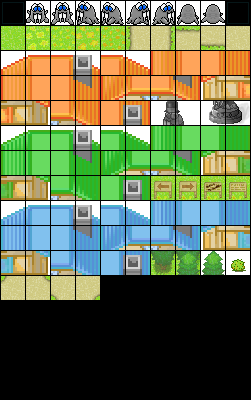
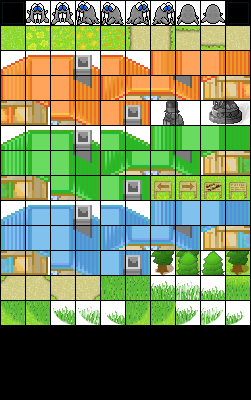
Map and key input
Extended the map and started working on keyboard inputs (non-functional
yet)

Changed region(s): [[0.0, 0.63, 1.0, 0.81]]

diff --git a/Map.java b/Map.java
@@ -50,14 +50,25 @@ public class Map {
 	}
 	
 	public static void loadCity1() {
-		for(int _i=0;_i<100;_i++) {Map[_i][24] = new long[] { 107, 107, 107, 107, 107, 901*108+14, 901*108+10, 10, 10, 14,					106, 14, 14, 10, 11, 10, 10, 0, 0, 0,								0, 0, 0, 0, 0, 0, 0, 0, 0, 0, 0, 0, 0, 0, 0, 0, 0, 0, 0, 0, 0, 0, 0, 0, 0, 0, 0, 0, 0, 0, 0, 0, 0, 0, 0, 0, 0, 0, 0, 0, 0, 0, 0, 0, 0, 0, 0, 0, 0, 0, 0, 0, 0, 0, 0, 0, 0, 0, 0, 0, 0, 0, 0, 0, 0, 0, 0, 0, 0, 0, 0, 0, 0, 0, 0, 0, 0, 0, 0,  0}[_i];}
-		for(int _i=0;_i<100;_i++) {Map[_i][25] = new long[] { 107, 107, 107, 107, 107, 107, 107, 901*108+10, 10, 10,						12, 14, 10, 901*108+10, 10, 10, 10, 0, 0, 0,						0, 0, 0, 0, 0, 0, 0, 0, 0, 0, 0, 0, 0, 0, 0, 0, 0, 0, 0, 0, 0, 0, 0, 0, 0, 0, 0, 0, 0, 0, 0, 0, 0, 0, 0, 0, 0, 0, 0, 0, 0, 0, 0, 0, 0, 0, 0, 0, 0, 0, 0, 0, 0, 0, 0, 0, 0, 0, 0, 0, 0, 0, 0, 0, 0, 0, 0, 0, 0, 0, 0, 0, 0, 0, 0, 0, 0, 0, 0,  0}[_i];}
-		for(int _i=0;_i<100;_i++) {Map[_i][26] = new long[] { 107, 107, 107, 106, 107, 901*20+106, 901*21+106, 901*24+106, 901*25+10, 10,	12, 901*20+12, 901*21+10, 901*22+106, 901*23+10, 10, 10, 0, 0, 0,	0, 0, 0, 0, 0, 0, 0, 0, 0, 0, 0, 0, 0, 0, 0, 0, 0, 0, 0, 0, 0, 0, 0, 0, 0, 0, 0, 0, 0, 0, 0, 0, 0, 0, 0, 0, 0, 0, 0, 0, 0, 0, 0, 0, 0, 0, 0, 0, 0, 0, 0, 0, 0, 0, 0, 0, 0, 0, 0, 0, 0, 0, 0, 0, 0, 0, 0, 0, 0, 0, 0, 0, 0, 0, 0, 0, 0, 0, 0,  0}[_i];}
-		for(int _i=0;_i<100;_i++) {Map[_i][27] = new long[] { 107, 107, 107, 10, 106, 26, 27, 28, 29, 13,									901*108+12, 26, 27, 32, 33, 10, 10, 0, 0, 0,						0, 0, 0, 0, 0, 0, 0, 0, 0, 0, 0, 0, 0, 0, 0, 0, 0, 0, 0, 0, 0, 0, 0, 0, 0, 0, 0, 0, 0, 0, 0, 0, 0, 0, 0, 0, 0, 0, 0, 0, 0, 0, 0, 0, 0, 0, 0, 0, 0, 0, 0, 0, 0, 0, 0, 0, 0, 0, 0, 0, 0, 0, 0, 0, 0, 0, 0, 0, 0, 0, 0, 0, 0, 0, 0, 0, 0, 0, 0,  0}[_i];}
-		for(int _i=0;_i<100;_i++) {Map[_i][28] = new long[] { 107, 107, 107, 901*108+14, 13, 26, 27, 44, 45, 10,							107, 26, 27, 28, 29, 10, 10, 0, 0, 0,								0, 0, 0, 0, 0, 0, 0, 0, 0, 0, 0, 0, 0, 0, 0, 0, 0, 0, 0, 0, 0, 0, 0, 0, 0, 0, 0, 0, 0, 0, 0, 0, 0, 0, 0, 0, 0, 0, 0, 0, 0, 0, 0, 0, 0, 0, 0, 0, 0, 0, 0, 0, 0, 0, 0, 0, 0, 0, 0, 0, 0, 0, 0, 0, 0, 0, 0, 0, 0, 0, 0, 0, 0, 0, 0, 0, 0, 0, 0,  0}[_i];}
-		for(int _i=0;_i<100;_i++) {Map[_i][29] = new long[] { 107, 107, 106, 107, 13, 901*34+11, 35, 36, 901*37+10, 901*4+10,				106, 901*34+11, 35, 42, 901*43+10, 10, 10, 0, 0, 0,					0, 0, 0, 0, 0, 0, 0, 0, 0, 0, 0, 0, 0, 0, 0, 0, 0, 0, 0, 0, 0, 0, 0, 0, 0, 0, 0, 0, 0, 0, 0, 0, 0, 0, 0, 0, 0, 0, 0, 0, 0, 0, 0, 0, 0, 0, 0, 0, 0, 0, 0, 0, 0, 0, 0, 0, 0, 0, 0, 0, 0, 0, 0, 0, 0, 0, 0, 0, 0, 0, 0, 0, 0, 0, 0, 0, 0, 0, 0,  0}[_i];}
-		for(int _i=0;_i<100;_i++) {Map[_i][30] = new long[] { 106, 106, 10, 106, 12, 901*38+11, 39, 40, 901*41+10, 11,						10, 901*38+11, 39, 40, 901*41+10, 901*109+10, 10, 0, 0, 0,			0, 0, 0, 0, 0, 0, 0, 0, 0, 0, 0, 0, 0, 0, 0, 0, 0, 0, 0, 0, 0, 0, 0, 0, 0, 0, 0, 0, 0, 0, 0, 0, 0, 0, 0, 0, 0, 0, 0, 0, 0, 0, 0, 0, 0, 0, 0, 0, 0, 0, 0, 0, 0, 0, 0, 0, 0, 0, 0, 0, 0, 0, 0, 0, 0, 0, 0, 0, 0, 0, 0, 0, 0, 0, 0, 0, 0, 0, 0,  0}[_i];}
-		for(int _i=0;_i<100;_i++) {Map[_i][31] = new long[] { 17, 17, 17, 17, 17, 17, 110, 111, 17, 17,										17, 17, 110, 111, 17, 17, 0, 0, 0, 0,								0, 0, 0, 0, 0, 0, 0, 0, 0, 0, 0, 0, 0, 0, 0, 0, 0, 0, 0, 0, 0, 0, 0, 0, 0, 0, 0, 0, 0, 0, 0, 0, 0, 0, 0, 0, 0, 0, 0, 0, 0, 0, 0, 0, 0, 0, 0, 0, 0, 0, 0, 0, 0, 0, 0, 0, 0, 0, 0, 0, 0, 0, 0, 0, 0, 0, 0, 0, 0, 0, 0, 0, 0, 0, 0, 0, 0, 0, 0,  0}[_i];}
+		for(int _i=0;_i<100;_i++) {Map[_i][15] = new long[] { 107, 107, 107, 107, 107, 107, 107, 107, 107, 107,									107, 107, 107, 901*106+10, 10, 10, 10, 10, 10, 10,											10, 10, 10, 15, 16, 0, 0, 0, 0, 0,						0, 0, 0, 0, 0, 0, 0, 0, 0, 0, 0, 0, 0, 0, 0, 0, 0, 0, 0, 0, 0, 0, 0, 0, 0, 0, 0, 0, 0, 0, 0, 0, 0, 0, 0, 0, 0, 0, 0, 0, 0, 0, 0, 0, 0, 0, 0, 0, 0, 0, 0, 0, 0, 0, 0, 0, 0, 0, 0, 0, 0, 0, 0, 0, 0, 0, 0, 0, 0,  0}[_i];}
+		for(int _i=0;_i<100;_i++) {Map[_i][16] = new long[] { 107, 107, 107, 107, 107, 107, 107, 107, 107, 107,									107, 107, 901*106+10, 901*108+10, 10, 10, 10, 10, 10, 10,									10, 10, 10, 15, 16, 0, 0, 0, 0, 0,						0, 0, 0, 0, 0, 0, 0, 0, 0, 0, 0, 0, 0, 0, 0, 0, 0, 0, 0, 0, 0, 0, 0, 0, 0, 0, 0, 0, 0, 0, 0, 0, 0, 0, 0, 0, 0, 0, 0, 0, 0, 0, 0, 0, 0, 0, 0, 0, 0, 0, 0, 0, 0, 0, 0, 0, 0, 0, 0, 0, 0, 0, 0, 0, 0, 0, 0, 0, 0,  0}[_i];}
+		for(int _i=0;_i<100;_i++) {Map[_i][17] = new long[] { 107, 107, 107, 107, 107, 107, 107, 107, 107, 107,									107, 107, 901*108+10, 107, 10, 10, 10, 10, 10, 10,											10, 10, 10, 15, 16, 0, 0, 0, 0, 0,						0, 0, 0, 0, 0, 0, 0, 0, 0, 0, 0, 0, 0, 0, 0, 0, 0, 0, 0, 0, 0, 0, 0, 0, 0, 0, 0, 0, 0, 0, 0, 0, 0, 0, 0, 0, 0, 0, 0, 0, 0, 0, 0, 0, 0, 0, 0, 0, 0, 0, 0, 0, 0, 0, 0, 0, 0, 0, 0, 0, 0, 0, 0, 0, 0, 0, 0, 0, 0,  0}[_i];}
+		for(int _i=0;_i<100;_i++) {Map[_i][18] = new long[] { 107, 107, 107, 107, 107, 901*106+10, 107, 107, 107, 107,							901*106+10, 107, 107, 901*106+10, 10, 10, 10, 10, 10, 10,									10, 10, 10, 15, 16, 0, 0, 0, 0, 0,						0, 0, 0, 0, 0, 0, 0, 0, 0, 0, 0, 0, 0, 0, 0, 0, 0, 0, 0, 0, 0, 0, 0, 0, 0, 0, 0, 0, 0, 0, 0, 0, 0, 0, 0, 0, 0, 0, 0, 0, 0, 0, 0, 0, 0, 0, 0, 0, 0, 0, 0, 0, 0, 0, 0, 0, 0, 0, 0, 0, 0, 0, 0, 0, 0, 0, 0, 0, 0,  0}[_i];}
+		for(int _i=0;_i<100;_i++) {Map[_i][19] = new long[] { 107, 107, 107, 107, 107, 901*108+10, 107, 107, 107, 901*106+10,					10, 901*106+10, 107, 10, 10, 10, 10, 10, 10, 10,											10, 10, 10, 15, 16, 0, 0, 0, 0, 0,						0, 0, 0, 0, 0, 0, 0, 0, 0, 0, 0, 0, 0, 0, 0, 0, 0, 0, 0, 0, 0, 0, 0, 0, 0, 0, 0, 0, 0, 0, 0, 0, 0, 0, 0, 0, 0, 0, 0, 0, 0, 0, 0, 0, 0, 0, 0, 0, 0, 0, 0, 0, 0, 0, 0, 0, 0, 0, 0, 0, 0, 0, 0, 0, 0, 0, 0, 0, 0,  0}[_i];}
+		for(int _i=0;_i<100;_i++) {Map[_i][20] = new long[] { 107, 107, 107, 107, 107, 107, 107, 107, 107, 14,									10, 10, 901*106+10, 10, 10, 10, 10, 10, 10, 10,												10, 10, 10, 15, 16, 0, 0, 0, 0, 0,						0, 0, 0, 0, 0, 0, 0, 0, 0, 0, 0, 0, 0, 0, 0, 0, 0, 0, 0, 0, 0, 0, 0, 0, 0, 0, 0, 0, 0, 0, 0, 0, 0, 0, 0, 0, 0, 0, 0, 0, 0, 0, 0, 0, 0, 0, 0, 0, 0, 0, 0, 0, 0, 0, 0, 0, 0, 0, 0, 0, 0, 0, 0, 0, 0, 0, 0, 0, 0,  0}[_i];}
+		for(int _i=0;_i<100;_i++) {Map[_i][21] = new long[] { 107, 107, 107, 107, 107, 107, 107, 901*106+10, 901*106+10, 10,					901*108+10, 901*108+10, 901*108+10, 10, 10, 10, 10, 10, 10, 10,								10, 10, 10, 15, 16, 0, 0, 0, 0, 0,						0, 0, 0, 0, 0, 0, 0, 0, 0, 0, 0, 0, 0, 0, 0, 0, 0, 0, 0, 0, 0, 0, 0, 0, 0, 0, 0, 0, 0, 0, 0, 0, 0, 0, 0, 0, 0, 0, 0, 0, 0, 0, 0, 0, 0, 0, 0, 0, 0, 0, 0, 0, 0, 0, 0, 0, 0, 0, 0, 0, 0, 0, 0, 0, 0, 0, 0, 0, 0,  0}[_i];}
+		for(int _i=0;_i<100;_i++) {Map[_i][22] = new long[] { 107, 107, 107, 107, 107, 107, 901*106+10, 10, 10, 901*108+10,						107, 107, 901*106+10, 10, 10, 10, 10, 10, 10, 10,											10, 10, 10, 15, 16, 0, 0, 0, 0, 0,						0, 0, 0, 0, 0, 0, 0, 0, 0, 0, 0, 0, 0, 0, 0, 0, 0, 0, 0, 0, 0, 0, 0, 0, 0, 0, 0, 0, 0, 0, 0, 0, 0, 0, 0, 0, 0, 0, 0, 0, 0, 0, 0, 0, 0, 0, 0, 0, 0, 0, 0, 0, 0, 0, 0, 0, 0, 0, 0, 0, 0, 0, 0, 0, 0, 0, 0, 0, 0,  0}[_i];}
+		for(int _i=0;_i<100;_i++) {Map[_i][23] = new long[] { 107, 107, 107, 107, 107, 901*106+10, 10, 10, 10, 107,								107, 901*106+10, 10, 10, 10, 10, 10, 10, 10, 10,											17, 17, 17, 110, 16, 0, 0, 0, 0, 0,						0, 0, 0, 0, 0, 0, 0, 0, 0, 0, 0, 0, 0, 0, 0, 0, 0, 0, 0, 0, 0, 0, 0, 0, 0, 0, 0, 0, 0, 0, 0, 0, 0, 0, 0, 0, 0, 0, 0, 0, 0, 0, 0, 0, 0, 0, 0, 0, 0, 0, 0, 0, 0, 0, 0, 0, 0, 0, 0, 0, 0, 0, 0, 0, 0, 0, 0, 0, 0,  0}[_i];}
+		for(int _i=0;_i<100;_i++) {Map[_i][24] = new long[] { 107, 107, 107, 107, 107, 901*108+14, 901*108+10, 10, 10, 901*106+10,				106*901+12, 14, 14, 10, 11, 10, 10, 10, 10, 10,												18, 18, 18, 112, 16, 0, 0, 0, 0, 0,						0, 0, 0, 0, 0, 0, 0, 0, 0, 0, 0, 0, 0, 0, 0, 0, 0, 0, 0, 0, 0, 0, 0, 0, 0, 0, 0, 0, 0, 0, 0, 0, 0, 0, 0, 0, 0, 0, 0, 0, 0, 0, 0, 0, 0, 0, 0, 0, 0, 0, 0, 0, 0, 0, 0, 0, 0, 0, 0, 0, 0, 0, 0, 0, 0, 0, 0, 0, 0,  0}[_i];}
+		for(int _i=0;_i<100;_i++) {Map[_i][25] = new long[] { 107, 107, 107, 107, 107, 107, 107, 901*108+10, 10, 10,							12, 14, 10, 901*108+10, 10, 10, 10, 10, 14, 10,												901*108+10, 10, 10, 15, 16, 0, 0, 0, 0, 0,				0, 0, 0, 0, 0, 0, 0, 0, 0, 0, 0, 0, 0, 0, 0, 0, 0, 0, 0, 0, 0, 0, 0, 0, 0, 0, 0, 0, 0, 0, 0, 0, 0, 0, 0, 0, 0, 0, 0, 0, 0, 0, 0, 0, 0, 0, 0, 0, 0, 0, 0, 0, 0, 0, 0, 0, 0, 0, 0, 0, 0, 0, 0, 0, 0, 0, 0, 0, 0,  0}[_i];}
+		for(int _i=0;_i<100;_i++) {Map[_i][26] = new long[] { 107, 107, 107, 106*901+10, 107, 901*20+109, 901*21+109, 901*24+109, 901*25+10, 	10, 12, 901*20+12, 901*21+10, 901*22+109, 901*23+10, 10, 10, 10, 901*20+12, 901*21+10,		901*22+109, 901*23+10, 10, 15, 16, 0, 0, 0, 0, 0,		0, 0, 0, 0, 0, 0, 0, 0, 0, 0, 0, 0, 0, 0, 0, 0, 0, 0, 0, 0, 0, 0, 0, 0, 0, 0, 0, 0, 0, 0, 0, 0, 0, 0, 0, 0, 0, 0, 0, 0, 0, 0, 0, 0, 0, 0, 0, 0, 0, 0, 0, 0, 0, 0, 0, 0, 0, 0, 0, 0, 0, 0, 0, 0, 0, 0, 0, 0, 0,  0}[_i];}
+		for(int _i=0;_i<100;_i++) {Map[_i][27] = new long[] { 107, 107, 107, 10, 106*901+10, 26, 27, 28, 29, 13,								901*108+12, 26, 27, 32, 33, 10, 10, 10, 26, 27,												32, 33, 10, 15, 16, 0, 0, 0, 0, 0,						0, 0, 0, 0, 0, 0, 0, 0, 0, 0, 0, 0, 0, 0, 0, 0, 0, 0, 0, 0, 0, 0, 0, 0, 0, 0, 0, 0, 0, 0, 0, 0, 0, 0, 0, 0, 0, 0, 0, 0, 0, 0, 0, 0, 0, 0, 0, 0, 0, 0, 0, 0, 0, 0, 0, 0, 0, 0, 0, 0, 0, 0, 0, 0, 0, 0, 0, 0, 0,  0}[_i];}
+		for(int _i=0;_i<100;_i++) {Map[_i][28] = new long[] { 107, 107, 107, 901*108+14, 13, 26, 27, 44, 45, 10,								107, 26, 27, 28, 29, 10, 14, 10, 26, 27,													28, 29, 14, 15, 16, 0, 0, 0, 0, 0, 						0, 0, 0, 0, 0, 0, 0, 0, 0, 0, 0, 0, 0, 0, 0, 0, 0, 0, 0, 0, 0, 0, 0, 0, 0, 0, 0, 0, 0, 0, 0, 0, 0, 0, 0, 0, 0, 0, 0, 0, 0, 0, 0, 0, 0, 0, 0, 0, 0, 0, 0, 0, 0, 0, 0, 0, 0, 0, 0, 0, 0, 0, 0, 0, 0, 0, 0, 0, 0,  0}[_i];}
+		for(int _i=0;_i<100;_i++) {Map[_i][29] = new long[] { 107, 107, 106*901+10, 107, 13, 901*34+11, 35, 36, 901*37+10, 10,					901*106+10, 901*34+11, 35, 42, 901*43+10, 901*108+10, 12, 12, 901*34+11, 35,				42, 901*43+10, 12, 15, 16, 0, 0, 0, 0, 0,				0, 0, 0, 0, 0, 0, 0, 0, 0, 0, 0, 0, 0, 0, 0, 0, 0, 0, 0, 0, 0, 0, 0, 0, 0, 0, 0, 0, 0, 0, 0, 0, 0, 0, 0, 0, 0, 0, 0, 0, 0, 0, 0, 0, 0, 0, 0, 0, 0, 0, 0, 0, 0, 0, 0, 0, 0, 0, 0, 0, 0, 0, 0, 0, 0, 0, 0, 0, 0,  0}[_i];}
+		for(int _i=0;_i<100;_i++) {Map[_i][30] = new long[] { 106*901+10, 106*901+10, 79, 106*901+13, 12, 901*38+11, 39, 40, 901*41+10, 11,		10, 901*38+11, 39, 40, 901*41+10, 901*106+10, 10, 12, 901*38+114, 39,						40, 901*41+10, 10, 15, 16, 0, 0, 0, 0, 0,				0, 0, 0, 0, 0, 0, 0, 0, 0, 0, 0, 0, 0, 0, 0, 0, 0, 0, 0, 0, 0, 0, 0, 0, 0, 0, 0, 0, 0, 0, 0, 0, 0, 0, 0, 0, 0, 0, 0, 0, 0, 0, 0, 0, 0, 0, 0, 0, 0, 0, 0, 0, 0, 0, 0, 0, 0, 0, 0, 0, 0, 0, 0, 0, 0, 0, 0, 0, 0,  0}[_i];}
+		for(int _i=0;_i<100;_i++) {Map[_i][31] = new long[] { 17, 17, 17, 17, 17, 17, 110, 111, 17, 17,											17, 17, 110, 111, 17, 17, 17, 17, 17, 17,													17, 17, 17, 110, 111, 0, 0, 0, 0, 0, 					0, 0, 0, 0, 0, 0, 0, 0, 0, 0, 0, 0, 0, 0, 0, 0, 0, 0, 0, 0, 0, 0, 0, 0, 0, 0, 0, 0, 0, 0, 0, 0, 0, 0, 0, 0, 0, 0, 0, 0, 0, 0, 0, 0, 0, 0, 0, 0, 0, 0, 0, 0, 0, 0, 0, 0, 0, 0, 0, 0, 0, 0, 0, 0, 0, 0, 0, 0, 0,  0}[_i];}
+		for(int _i=0;_i<100;_i++) {Map[_i][32] = new long[] { 901*108+18, 901*108+18, 901*108+18, 18, 18, 901*108+18, 18, 18, 112, 113,			901*108+18, 901*108+18, 901*108+18, 18, 18, 901*108+18, 18, 18, 112, 113,					0, 0, 0, 0, 0, 0, 0, 0, 0, 0,							0, 0, 0, 0, 0, 0, 0, 0, 0, 0, 0, 0, 0, 0, 0, 0, 0, 0, 0, 0, 0, 0, 0, 0, 0, 0, 0, 0, 0, 0, 0, 0, 0, 0, 0, 0, 0, 0, 0, 0, 0, 0, 0, 0, 0, 0, 0, 0, 0, 0, 0, 0, 0, 0, 0, 0, 0, 0, 0, 0, 0, 0, 0, 0, 0, 0, 0, 0, 0,  0}[_i];}
+		for(int _i=0;_i<100;_i++) {Map[_i][33] = new long[] { 107, 107, 107, 901*108+10, 901*108+10, 107, 901*108+12, 901*108+13, 15, 16,		107, 107, 107, 901*108+10, 901*108+10, 107, 901*108+10, 901*108+10, 10, 10,					0, 0, 0, 0, 0, 0, 0, 0, 0, 0,							0, 0, 0, 0, 0, 0, 0, 0, 0, 0, 0, 0, 0, 0, 0, 0, 0, 0, 0, 0, 0, 0, 0, 0, 0, 0, 0, 0, 0, 0, 0, 0, 0, 0, 0, 0, 0, 0, 0, 0, 0, 0, 0, 0, 0, 0, 0, 0, 0, 0, 0, 0, 0, 0, 0, 0, 0, 0, 0, 0, 0, 0, 0, 0, 0, 0, 0, 0, 0,  0}[_i];}
 
 	}
 

diff --git a/Screen.java b/Screen.java
@@ -5,7 +5,7 @@ import javax.swing.JFrame;
 import javax.swing.JLabel;
 
 public class Screen {
-	public static TileSource tiles = new TileSource("resources\\tiles.png", 24);
+	public static TileSource tiles = new TileSource("resources\\tiles.png", window.blocksize);
 
 	public static void setSize(int _width, int _height) {
 		ScreenWidth = _width;
@@ -24,15 +24,12 @@ public class Screen {
 	public static JFrame createWindow() {
 		JFrame frame = new JFrame("CodeW");
         frame.setIgnoreRepaint(true);
-		frame.setSize(24*ScreenWidth, 24*ScreenHeight);		// set window size
-	    frame.setVisible(true);
-	    frame.setDefaultCloseOperation(JFrame.EXIT_ON_CLOSE);
-	    frame.pack();
-	    frame.setVisible(true);
+        frame.setDefaultCloseOperation(JFrame.EXIT_ON_CLOSE);
+		frame.setSize(window.blocksize*ScreenWidth, window.blocksize*ScreenHeight);		// set window size
 	    return frame;
 	}
 	public static TileArea createTileArea(JFrame frame) {
-		TileArea tileArea = new TileArea(24*ScreenWidth, 24*ScreenHeight);
+		TileArea tileArea = new TileArea(window.blocksize*ScreenWidth, window.blocksize*ScreenHeight);
 		frame.add("Center", tileArea);
 		frame.pack();
 	    frame.setVisible(true);
@@ -43,10 +40,17 @@ public class Screen {
 		frame.add(lbl);
 		return lbl;
 	}
-	public static BufferStrategy createBuffer(Canvas canvas) {
-		canvas.createBufferStrategy(2);
-        BufferStrategy buffer = canvas.getBufferStrategy();
-        return buffer;
+	public static void prepareCanvas(Canvas _canvas) {
+		_canvas.setIgnoreRepaint(true);
+        _canvas.setSize(window.width, window.height);
+	}
+	public static BufferStrategy createBuffer(JFrame _window, Canvas _canvas) {
+        _window.add(_canvas);
+        _window.pack();
+        _window.setVisible(true);
+		_canvas.createBufferStrategy(2);
+		BufferStrategy _buffer = _canvas.getBufferStrategy();
+        return _buffer;
 	}
 	public static Screen createScreen(int _width, int _height) {
 		Screen screen = new Screen(_width, _height);
@@ -63,7 +67,7 @@ public class Screen {
 			for(int _x=0;_x<getWidth();_x++) {
 				Screen.setField(_x, _y, Map.get(left+_x, top+_y));
 				if(left+_x == Player.getXPos() && top+_y == Player.getYPos()) {
-					Screen.setField(_x, _y, 901*108+14);
+					Screen.setField(_x, _y, 901*6+0);
 				}
 			
 			}
@@ -77,21 +81,21 @@ public class Screen {
 				if (data!=dataOld | ForceUpdate == true) {
 					int _background = Map.getBackgroundID(data);	// extract background data
 					int _foreground = Map.getForegroundID(data);	// extrace foreground data
-					System.out.println("Zeichne neuen Block: "+_x+":"+_y);
+					/*System.out.println("Zeichne neuen Block: "+_x+":"+_y);
 					System.out.println("Original Data="+data);
 					System.out.println("Foreground (901)="+_foreground);
 					System.out.println("Background (1)="+_background);
 					System.out.println("background tile xPos="+TileSource.getXPos(_background));
 					System.out.println("background tile yPos="+TileSource.getYPos(_background));
 					System.out.println("foreground tile xPos="+TileSource.getXPos(_foreground));
-					System.out.println("foreground tile yPos="+TileSource.getYPos(_foreground));
-					TileArea.drawTile(tiles, TileSource.getXPos(_background), TileSource.getYPos(_background), 24*_x, 24*_y);						// render background layer
-					if(_foreground>0) {TileArea.drawTile(tiles, TileSource.getXPos(_foreground), TileSource.getYPos(_foreground), 24*_x, 24*_y);}	// add foreground layer
+					System.out.println("foreground tile yPos="+TileSource.getYPos(_foreground));*/
+					TileArea.drawTile(tiles, TileSource.getXPos(_background), TileSource.getYPos(_background), window.blocksize*_x, window.blocksize*_y);						// render background layer
+					if(_foreground>0) {TileArea.drawTile(tiles, TileSource.getXPos(_foreground), TileSource.getYPos(_foreground), window.blocksize*_x, window.blocksize*_y);}	// add foreground layer
 				}
 			}
 		}
 	}
-	public static void DumpOldData() {
+	public static void UpdateOldData() {
 		ScreenMatrixOld = ScreenMatrix;
 	}
 	public static void setField(int _x, int _y, double i) {

diff --git a/window.java b/window.java
@@ -1,43 +1,52 @@
 package CodeW;
+import java.awt.Canvas;
+import java.awt.event.KeyEvent;
+import java.awt.event.KeyListener;
+import java.awt.image.BufferStrategy;
+
 import javax.swing.JFrame;
 import javax.swing.JLabel;
 import CodeW.TileArea;
 import CodeW.TileSource;
+import java.awt.Canvas;
+
 
 public class window {
+	public static int width = 1000;
+	public static int height = 528;
+	public static int blocksize = 24;
+	public static BufferStrategy buffer;
 	public static void main(String[] args) {
 		LoadBlocks();										// Loading background block data
-		Screen.setSize(12,18);								// Setup Screen (results in 0-11 x 0-17)
+		Screen.setSize(width/blocksize, height/blocksize);	// Setup Screen (results in 0-11 x 0-17)
 		JFrame window = Screen.createWindow();				// Create window object (JFrame)
-		JLabel label = Screen.createLabel(window);			// Create stuff in window (JLabel)
+//		JLabel label = Screen.createLabel(window);			// Create stuff in window (JLabel)
+		//Canvas canvas = new Canvas();
+		//Screen.prepareCanvas(canvas);
+		//buffer = Screen.createBuffer(window, canvas);
+		//KeyControls.prepare(canvas);
+		//window.add(canvas);
+		window.pack();
+		window.setVisible(true);
+		
 		Map.setSize(100, 100);								// Create map with given size
-		Player Walrii = Player.createPlayer(0, 10, 10);		// Define Player
+		//Player Walrii = Player.createPlayer(0, 10, 10);		// Define Player
 		TileArea tileArea = Screen.createTileArea(window);	
-		Player.setXPos(20);
-		Player.setYPos(10);
+		Player.setXPos(0);
+		Player.setYPos(20);
 		Map.createRandom(0, 96);
 		Map.loadCity1();
-		for(int _x = 0;_x<100;_x++) {
-			System.out.println(TileSource.getXPos(_x)+" - "+TileSource.getYPos(_x));
-		}
-		Player.setXPos(12);
-		Player.setYPos(35);
 		Screen.update();
 		Screen.render(true);
-	    while (true) {				// MAIN GAME LOOP
-			
-	    	for(int _x=1;_x<100;_x++) {
-	    		Player.setXPos(_x);
-	    		Player.setYPos(30);
-	    		Screen.update();
-	    		Screen.render(true);
-	    		Screen.DumpOldData();
-	    		window.repaint();
-	    		General.sleep(1000);
-	    	}
+		while (true) {				// MAIN GAME LOOP
+	    	Screen.update();
+	    	Screen.render(true);
+	    	Screen.UpdateOldData();
+	    	window.repaint();
+	    	KeyControls.checkInput();
+	    	General.sleep(10);
 		}
 	}
-
 	public static void LoadBlocks() {
 		Block.AddNew(5, "grass", false, 5, 105);
 		Block.AddNew(6, "stone", false, 6, 106);
@@ -45,10 +54,6 @@ public class window {
 		Block.AddNew(8, "sheep", false, 8, 108);
 		Block.AddNew(9, "apple", false, 9, 109);
 		Block.AddNew(new Block(10, "lava", true, 10, 110));
-		Block.AddNew(new Block(11, "water", true, 11, 111));
-		
-		
-		
-		
+		Block.AddNew(new Block(11, "water", true, 11, 111));	
 	}
 }

diff --git a/KeyControls.java b/KeyControls.java
@@ -1,0 +1,44 @@
+package CodeW;
+
+import java.awt.Canvas;
+import java.awt.Graphics;
+import java.awt.event.KeyEvent;
+import java.awt.event.KeyListener;
+import java.awt.image.BufferStrategy;
+
+public class KeyControls {
+	public static boolean keyDown[];
+	public static void prepare(Canvas _canvas) {
+        _canvas.setSize(window.width, window.height);
+		_canvas.setIgnoreRepaint(true);
+		_canvas.createBufferStrategy(2);
+        keyDown = new boolean[65536]; //This list will hold the position of keys (up/down)
+		_canvas.addKeyListener(new KeyListener() {
+
+            @Override
+            public void keyTyped(KeyEvent ke) {
+            }
+
+            @Override
+            public void keyPressed(KeyEvent ke) {
+                keyDown[ke.getKeyCode()] = true;
+            }
+
+            @Override
+            public void keyReleased(KeyEvent ke) {
+                keyDown[ke.getKeyCode()] = false;
+            }
+        });
+	}
+	public static void checkInput() {
+		for(int _x=0;_x<65536;_x++) {
+        	if(keyDown[_x]==true) {
+        		System.out.println(_x+" pressed");
+        	}
+        }
+		if(keyDown[37]==true) {
+    		Player.move("up");
+    		System.out.println("LEFT#########################################################");
+    	}
+	}
+}

diff --git a/TileSource.java b/TileSource.java
@@ -44,6 +44,12 @@ public class TileSource extends Component {
 		if (m_tiles == null) {
 			return null;
 		}
-		return m_tiles.getSubimage(tilex*(m_tileSize+1)+1, tiley*(m_tileSize+1)+1, m_tileSize, m_tileSize);
+		try {
+			return m_tiles.getSubimage(tilex*(m_tileSize+1)+1, tiley*(m_tileSize+1)+1, m_tileSize, m_tileSize);
+		}
+		catch(Exception e){
+			System.out.println("Couldnt load tile subimage. Better check the BLOCKSIZE parameter and the sourcefile.");
+			return new BufferedImage(0, 0, 0);
+		}
 	}
 }

diff --git a/TileArea.java b/TileArea.java
@@ -25,6 +25,8 @@ public class TileArea extends Component {
 	}
 	
 	public static void drawTile(TileSource tileSource, int tilex, int tiley, int x, int y) {
+		//Graphics graphics = _buffer.getDrawGraphics();
+		//graphics.drawImage(tileSource.getTile(tilex, tiley), x, y, null);
 		Graphics2D g = m_image.createGraphics();
 	    g.drawImage(tileSource.getTile(tilex, tiley), x, y, null);
 	}

diff --git a/Player.java b/Player.java
@@ -22,4 +22,14 @@ public class Player {
 	public static void setYPos(int _y) {
 		yPos = _y;
 	}
+	public static void move(String _dir) {
+		switch(_dir) {
+			case "left":
+				setXPos(getXPos()-1);
+			case "right":
+				setXPos(getXPos()+1);
+			case "up":
+				setYPos(getYPos()-1);
+		}
+	}
 }
